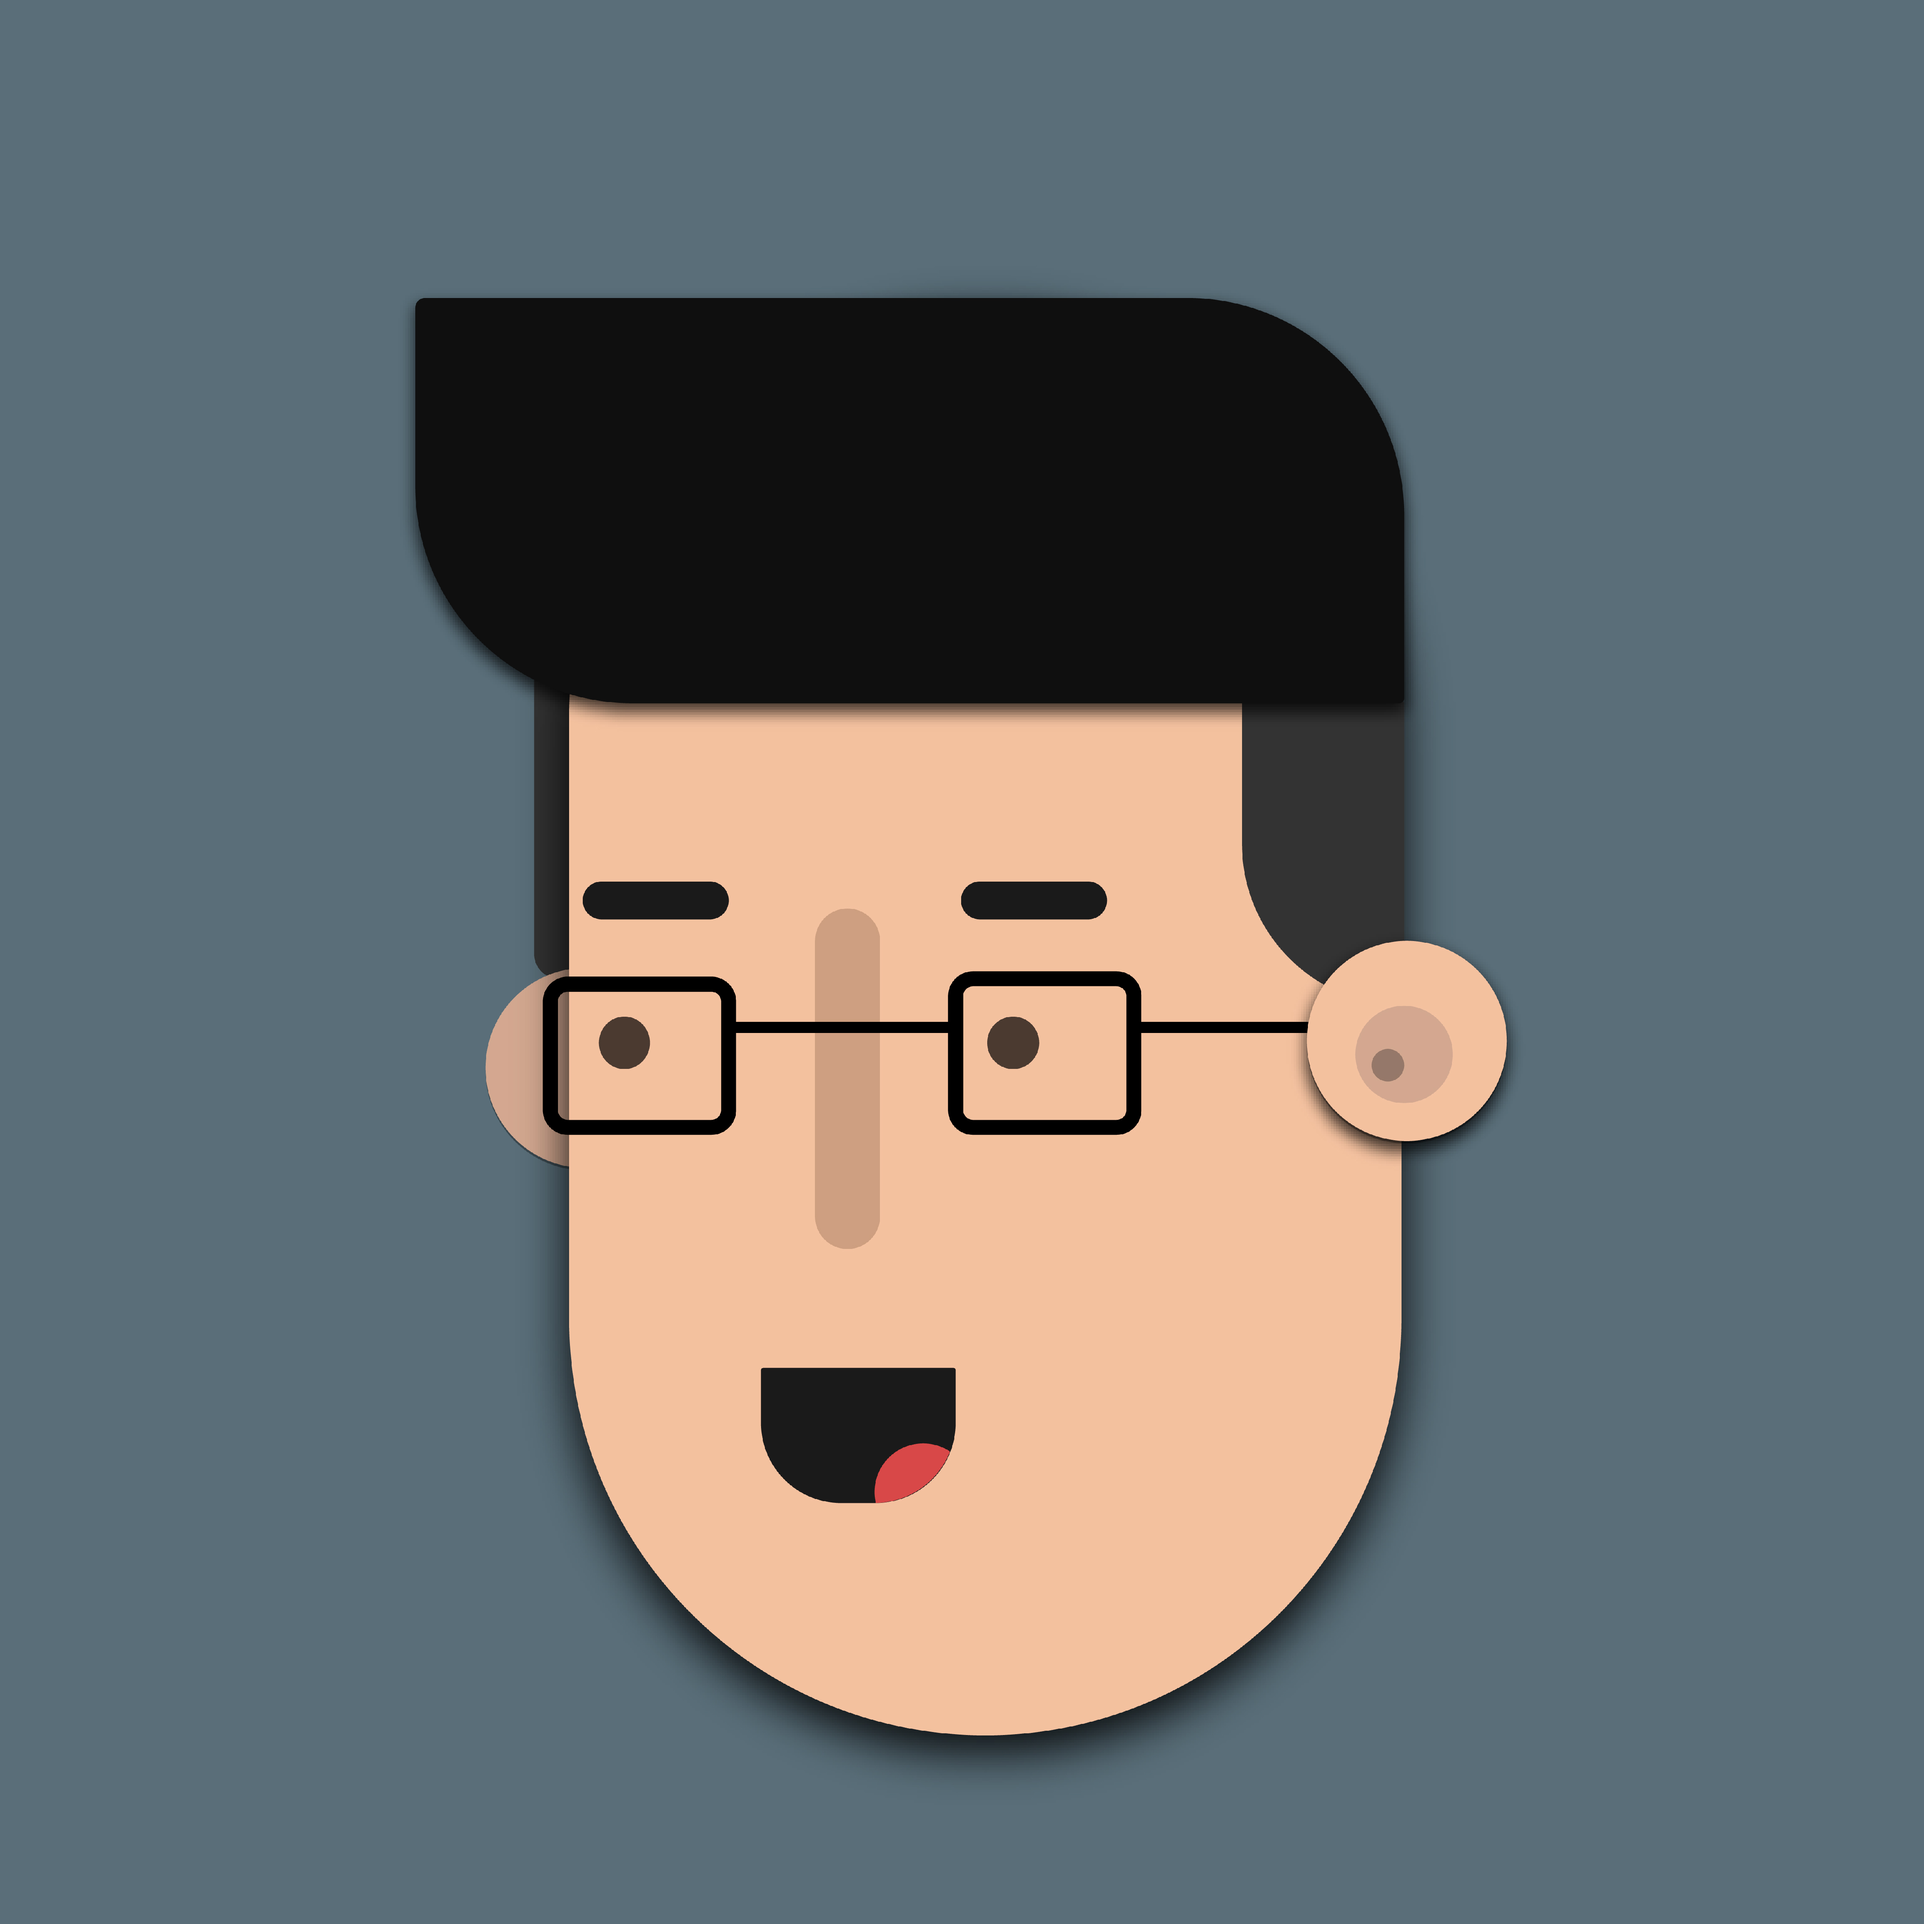
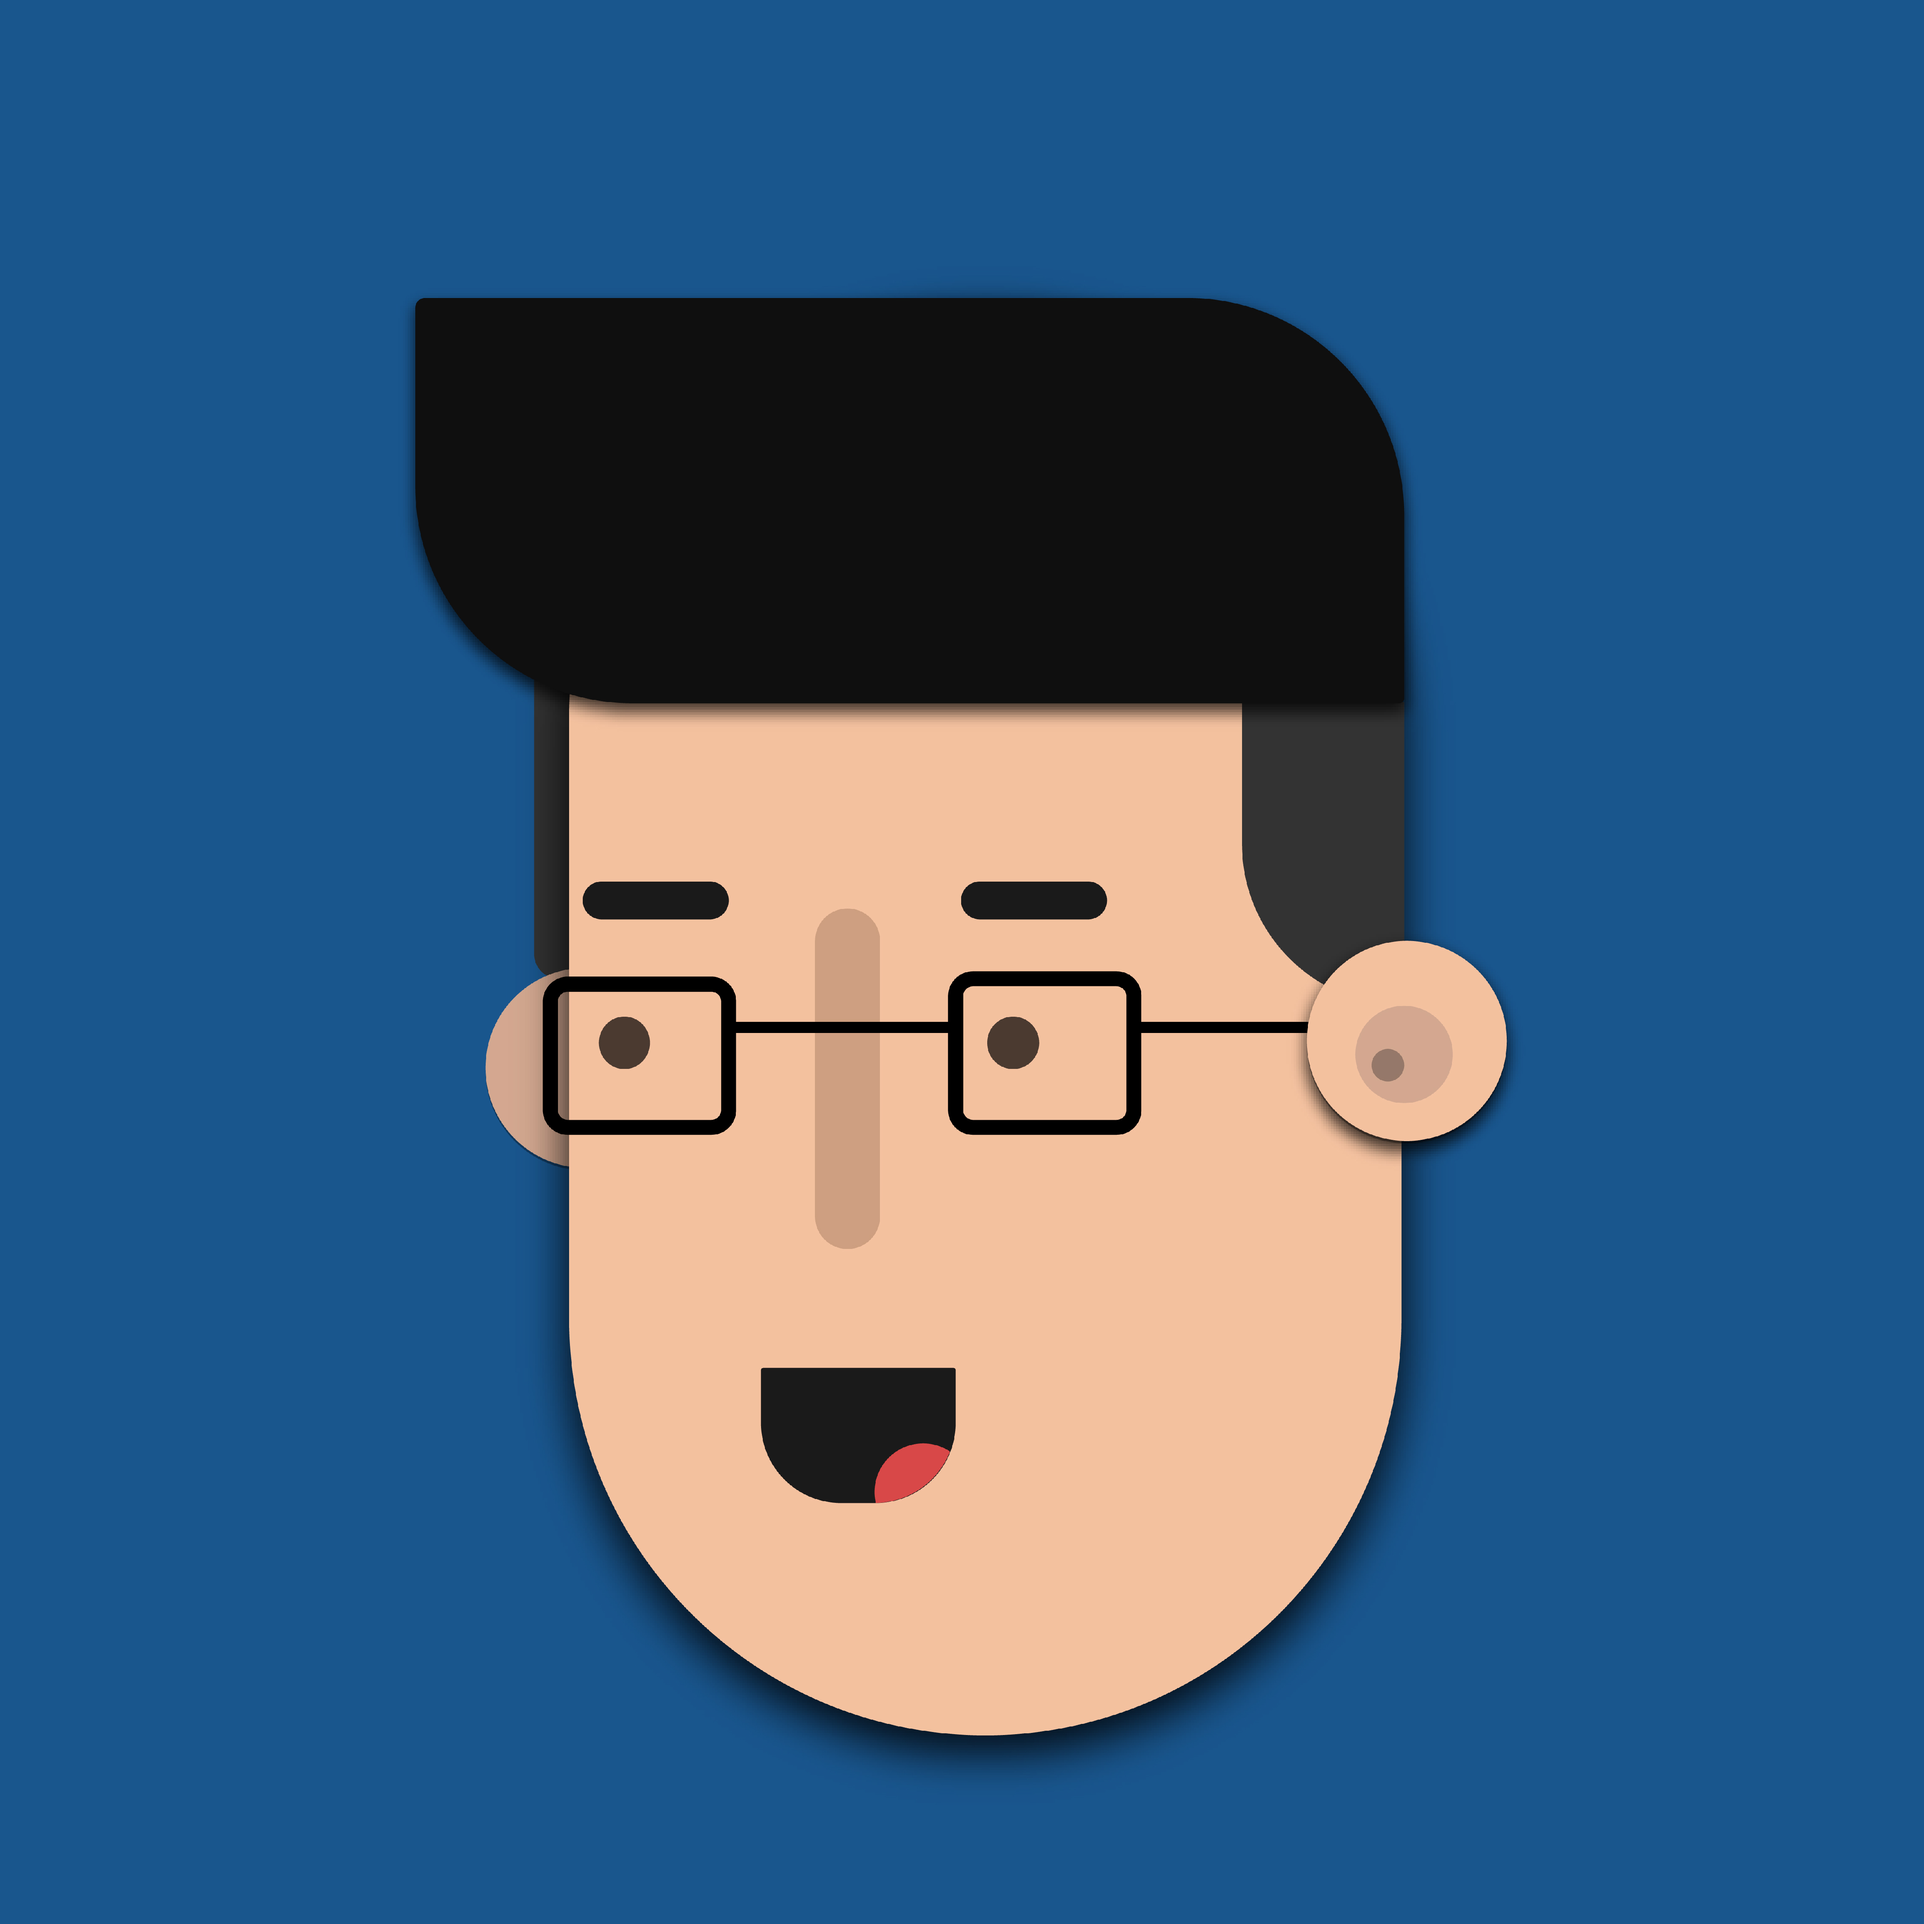
change the color

diff --git a/css/style.css b/css/style.css
@@ -1,6 +1,6 @@
 body {
   z-index: -2;
-  color: #596e79;
+  color: #19568e;
   background-color: #EEEEEE;
   margin:0;
   padding:0;
@@ -12,7 +12,7 @@ body {
   z-index: -1;
   width: 100%;
   height: 25%;
-  background-color: #596e79;
+  background-color: #19568e;
   top: 0;
   position: fixed;
 }
@@ -131,7 +131,7 @@ body {
 }
 
 #card3 a:hover{
-  color: #596e79;
+  color: #19568e;
 }
 
 hr{
@@ -161,7 +161,7 @@ hr{
 }
 
 #fab i{
-	color:#596e79;
+	color:#19568e;
 	font-size:22px;
 }
 
